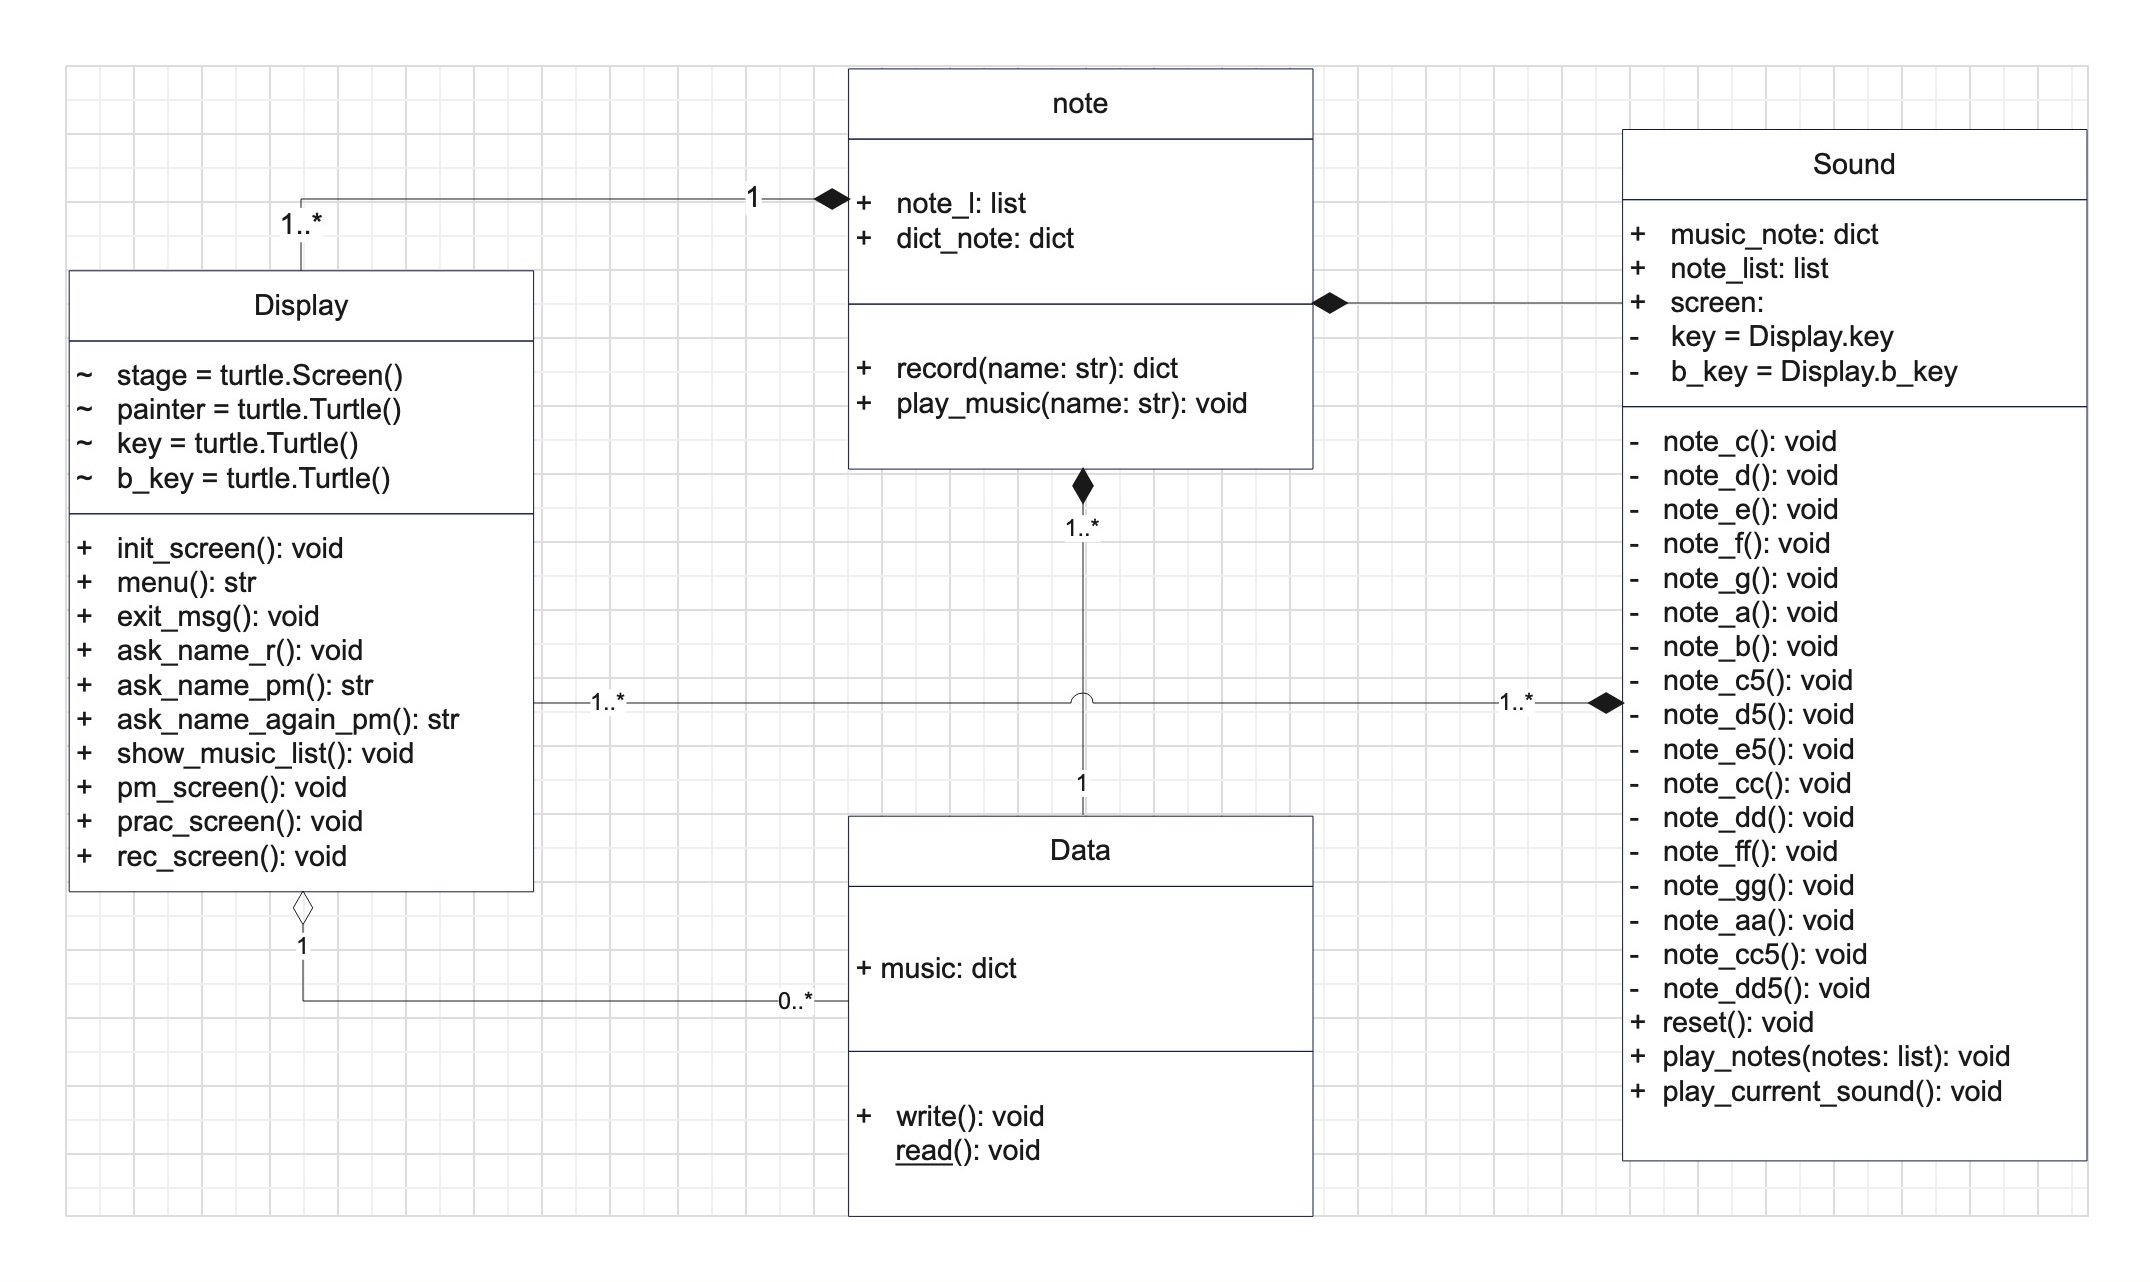
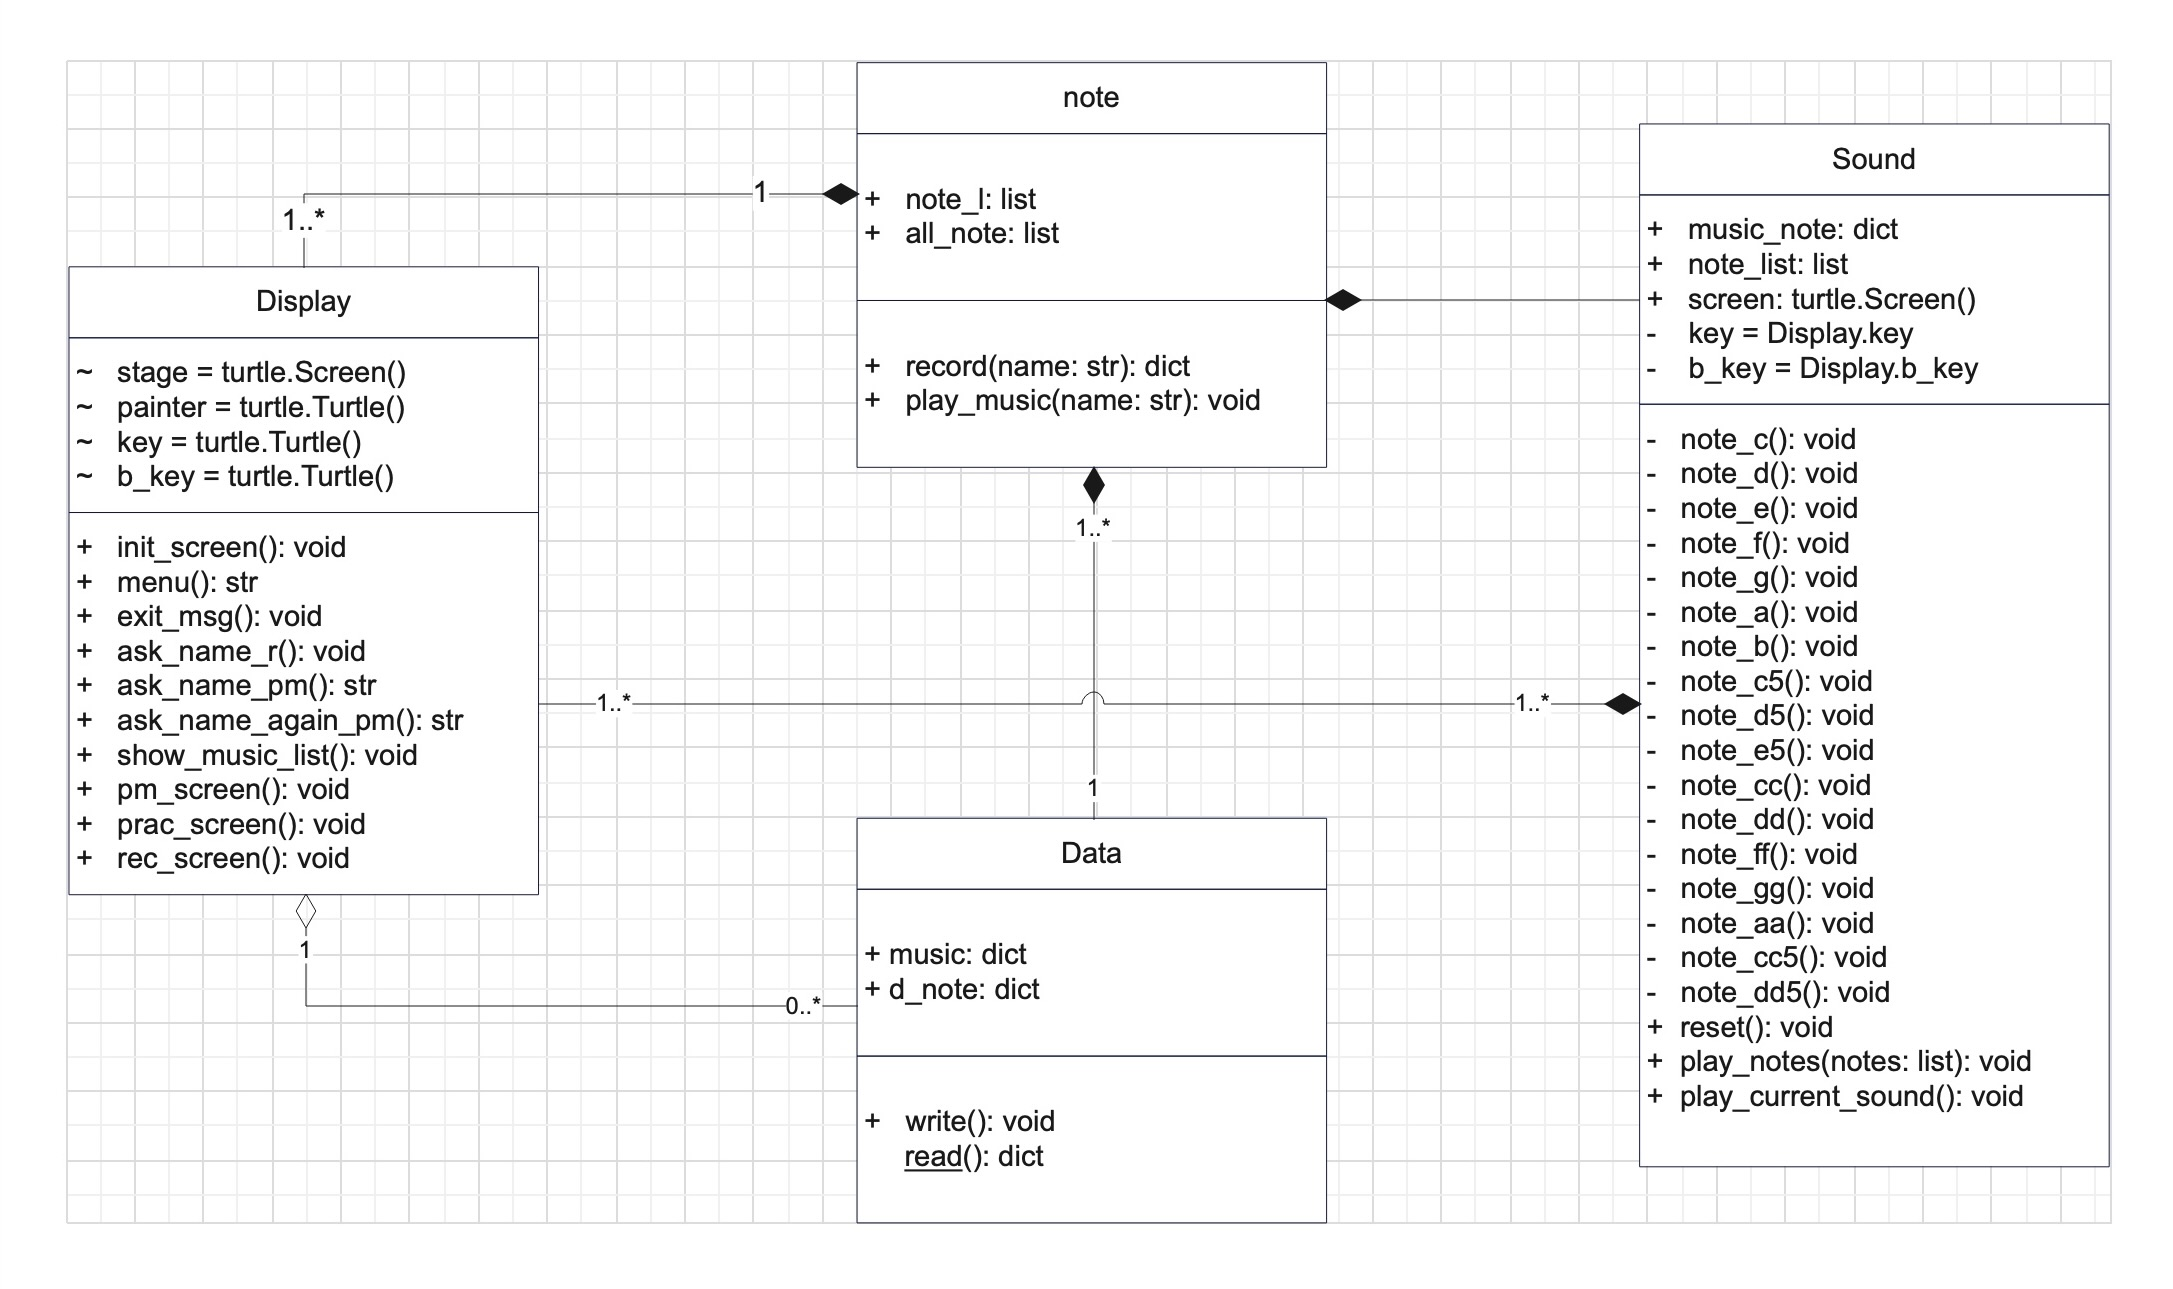
update

diff --git a/main.py b/main.py
@@ -16,6 +16,20 @@ play_music = ['play music', 'playmusic', 'pm', 'm']
 
 while isinstance(menu, str):
 
+    print('Welcome to Piano Melody')
+    print(' _______________________________________\n'
+          '|  | | | |  |  | | | | | |  |  | | | |  |\n'
+          '|  | | | |  |  | | | | | |  |  | | | |  |\n'
+          '|  | | | |  |  | | | | | |  |  | | | |  |\n'
+          '|  |_| |_|  |  |_| |_| |_|  |  |_| |_|  |\n'
+          '|   |   |   |   |   |   |   |   |   |   |\n'
+          '|   |   |   |   |   |   |   |   |   |   |\n'
+          '|___|___|___|___|___|___|___|___|___|___|\n')
+    print('You have three menus to choose\n'
+          'record\n'
+          'practice\n'
+          'play music\n')
+
     while menu.lower() in record or menu.lower() in practice or menu.lower() in play_music:
 
         if menu.lower() in record:
@@ -27,9 +41,9 @@ while isinstance(menu, str):
             try:
                 while len(name) >= 15 or not name:
                     if len(name) >= 15:
-                        print(f"Music's name must be less than 15 characters.\n{'-----'*12}")
+                        print(f"Music's name must be less than 15 characters.\n{'-----' * 12}")
                     if not name:
-                        print(f"Your music must have a name.\nPlease try again\n{'-----'*12}")
+                        print(f"Your music must have a name.\nPlease try again\n{'-----' * 12}")
                     name = stage.ask_name_r()
             except TypeError:
                 print("Aren't you really going to use my piano? :(")
@@ -51,7 +65,8 @@ while isinstance(menu, str):
         elif menu.lower() in play_music:
             print(f"You choose to play the music. ~Enjoy~\n{'-----' * 12}")
             stage.show_music_list()
-            music_name = stage.ask_name_pm()
+            music_name = input("music's name\n"
+                               "May I ask for the music's name you want to listen?: ")
             stage.pm_screen()
 
             music_to_play = Data.read()
@@ -60,7 +75,9 @@ while isinstance(menu, str):
                     print(f"Sorry, The music you want doesn't seem to be in the data."
                           f"\nPlease try again, Ensure the song you entered is correct."
                           f"\n{'-----'*12}")
-                    music_name = stage.ask_name_again_pm()
+                    # music_name = stage.ask_name_again_pm()
+                    music_name = input("music's name\n"
+                                       "May I ask you again for the music's name you want to listen?")
             except TypeError:
                 sys.exit()
             else:
@@ -68,7 +85,9 @@ while isinstance(menu, str):
                     print(f"There is no list of songs you want to play in our system."
                           f"\nPlease try one more time."
                           f"\n\n{'-----'*12}")
-                    music_name = stage.ask_name_again_pm()
+                    # music_name = input('name to play: ')
+                    music_name = input("music's name\n"
+                                       "May I ask you again for the music's name you want to listen?")
 
             note = Note()
             note.play_music(music_name)

diff --git a/note.py b/note.py
@@ -2,12 +2,14 @@ from data import Data
 from sound import Sound
 from display import Display
 
+all_music = Data()
+
 
 class Note:
     """ manage the music and notes """
     def __init__(self, note_list=None):
         self.note_l = note_list
-        self.dict_note = Data.read()
+        self.all_note = [all_music.d_note, all_music.music]
 
     def record(self, name):
         """ make the data to record the music """
@@ -16,7 +18,8 @@ class Note:
 
     def play_music(self, name):
         """ play music that the user picked """
-        for music, notes in self.dict_note.items():
+        # for data in self.dict_note[0]:
+        for music, notes in self.all_note[0].items():
             if music == name:
                 current_m = {name: notes}
                 music_ = Sound(current_m, Display())

diff --git a/data.py b/data.py
@@ -3,8 +3,9 @@ import json
 
 class Data:
     """ read/write data """
-    def __init__(self, music: dict):
+    def __init__(self, music=None):
         self.music = music
+        self.d_note = self.read()
 
     def write(self):
         """ store the music's name with notes to database """

diff --git a/README.md b/README.md
@@ -49,7 +49,7 @@ There are four classes in this program.
 
 This is the program's class diagram
 
-![UML](Piano%20Melody%20UML.png)
+![UML](Piano Melody UML.png)
 
 ### Code structure
 This program consists of 5 python files and 1 json file, which is the music database.
